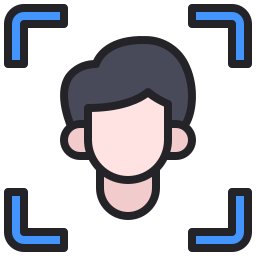
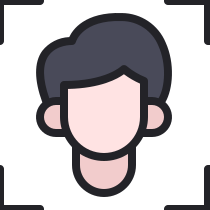
implement EditProfileModal component

diff --git a/src/components/items/EditProfileModal.tsx b/src/components/items/EditProfileModal.tsx
@@ -1,0 +1,102 @@
+interface EditProfileModalProps {
+  onConfirm: () => void;
+  onCancel: () => void;
+}
+
+export default function EditProfileModal({
+  onConfirm,
+  onCancel,
+}: EditProfileModalProps) {
+  return (
+    <div className="fixed z-50 inset-0 flex items-center justify-center bg-gray-700/50">
+      <div className="bg-surface px-6 pt-6 md:py-5 md:rounded-xl shadow-lg w-full h-full md:h-auto max-w-xl relative">
+        <h2 className="text-xl font-bold pl-1">Edit Profile</h2>
+        <button
+          type="button"
+          className="absolute top-4 right-6 text-3xl bg-ground-600/80 text-secondary hover:text-text-primary"
+          onClick={onCancel}
+        >
+          &times;
+        </button>
+        <div className="border-t border-border my-4"></div>
+
+        <div className="flex flex-col  w-fit p-2 gap-4 ">
+          <img
+            className=" w-26 rounded-full border-amber-200 border-2 p-1 object-cover"
+            src="/face-id.png"
+            alt="Profile"
+          />
+          <img
+            className="absolute w-8 left-25 top-41 rounded-full bg-green-700 border-2 p-2 object-cover"
+            src="/camera-light.svg"
+            alt="Profile"
+          />
+        </div>
+
+        <div className="flex flex-col px-2 py-4 gap-4 ">
+          <div className="flex flex-col bg-card p-3 rounded-lg border border-border">
+            <label className="text-sm text-text-primary mb-1">Username</label>
+            <input
+              type="text"
+              className="border border-gray-300 rounded-md px-3 py-2 focus:outline-none focus:ring-2 focus:ring-blue-500 bg-surface text-text-primary"
+              placeholder="Enter your username"
+            />
+          </div>
+          <div className="flex bg-yellow-500 px-3  py-2  gap-2 rounded-lg border border-border">
+            <div className="flex flex-col w-full mb-1">
+              <label className="text-sm text-text-primary mb-1">
+                First Name
+              </label>
+              <input
+                type="text"
+                className="border border-gray-300 rounded-md px-3 py-2 focus:outline-none focus:ring-2 focus:ring-blue-500 bg-surface text-text-primary"
+                placeholder="Enter your first name"
+              />{" "}
+            </div>
+            <div className="flex flex-col w-full mb-1 ">
+              <label className="text-sm text-text-primary mb-1">
+                Last Name
+              </label>
+              <input
+                type="text"
+                className="border border-gray-300 rounded-md px-3 py-2 focus:outline-none focus:ring-2 focus:ring-blue-500 bg-surface text-text-primary"
+                placeholder="Enter your last name"
+              />{" "}
+            </div>
+          </div>
+
+          <div className="flex flex-col bg-card p-3  rounded-lg border border-border">
+            <label className="text-sm text-text-primary mb-1">About Me</label>
+            <textarea
+              className="border border-gray-300 rounded-md px-3 py-2 focus:outline-none focus:ring-2 focus:ring-blue-500 bg-surface text-text-primary"
+              placeholder="Tell us about yourself"
+              rows={4}
+            ></textarea>
+          </div>
+          <div className="flex flex-col bg-card p-3 rounded-lg border border-border">
+            <label className="text-sm text-text-primary mb-1">
+              Profile Picture
+            </label>
+            <input
+              type="file"
+              className="border border-gray-300 rounded-md px-3 py-2 focus:outline-none focus:ring-2 focus:ring-blue-500 bg-surface text-text-primary"
+            />
+          </div>
+        </div>
+        <button
+          onClick={onConfirm}
+          className="mt-4 px-4 py-2 bg-blue-600 text-white rounded hover:bg-blue-700 transition-colors"
+        >
+          Save Changes
+        </button>
+        <button
+          onClick={onCancel}
+          className="mt-4 px-4 py-2 bg-gray-600 text-white rounded hover:bg-gray-700 transition-colors"
+        >
+          Cancel
+        </button>
+        {/* Add form fields for editing profile here */}
+      </div>
+    </div>
+  );
+}

diff --git a/src/components/items/ProfileModal.tsx b/src/components/items/ProfileModal.tsx
@@ -2,7 +2,6 @@ import { fetchUser } from "../../features/authDatabase";
 import ColorButton from "../buttons/ColorButton";
 
 import { useEffect, useState } from "react";
-import { showToast } from "./ToastItem";
 import { useTheme } from "../../context/ThemeContext";
 import { useWindowWidth } from "../../utils/useWindowWidth";
 import { useTranslation } from "../../utils/useTranslation";
@@ -13,9 +12,14 @@ import { useKvpContext } from "../../context/KvpContext";
 interface ProfileModalProps {
   onConfirm: () => void;
   onCancel: () => void;
+  showEditProfile?: () => void;
 }
 
-export function ProfileModal({ onConfirm, onCancel }: ProfileModalProps) {
+export function ProfileModal({
+  onConfirm,
+  onCancel,
+  showEditProfile,
+}: ProfileModalProps) {
   const [username, setUsername] = useState(
     "... " + useTranslation().profileModal.loadData,
   );
@@ -45,8 +49,6 @@ export function ProfileModal({ onConfirm, onCancel }: ProfileModalProps) {
   const act =
     kvps?.filter((kvp) => kvp.assignedTo === username && kvp.state === "Act")
       .length || 0;
-
-  //const actPercentage = createdBy > 0 ? Math.round((act / createdBy) * 100) : 0;
 
   const profileUser = users?.find((user) => user.userEmail === email)?.photoUrl;
 
@@ -80,14 +82,11 @@ export function ProfileModal({ onConfirm, onCancel }: ProfileModalProps) {
             <ColorButton
               color="gray"
               isTextOnly={true}
-              onClick={() =>
-                showToast(
-                  width,
-                  theme,
-                  "info",
-                  "Profil ändern Funktion ist noch nicht implementiert.",
-                )
-              }
+              onClick={() => {
+                if (showEditProfile) {
+                  showEditProfile();
+                }
+              }}
             >
               {translation.profileModal.profileButton}
             </ColorButton>

diff --git a/src/components/layout/TopBar.tsx b/src/components/layout/TopBar.tsx
@@ -14,6 +14,7 @@ import { useTheme } from "../../context/ThemeContext";
 import { showToast } from "../items/ToastItem";
 import { TopNavButton } from "../buttons/TopNavButton";
 import { useTranslation } from "../../utils/useTranslation";
+import EditProfileModal from "../items/EditProfileModal";
 
 interface TopBarProps {
   kvpBar?: ReactNode;
@@ -37,6 +38,7 @@ export default function TopBar({ kvpBar }: TopBarProps) {
   const [showConfirmDialog, setShowConfirmDialog] = useState(false);
   const [showSettingsModal, setShowSettingsModal] = useState(false);
   const [showProfileModal, setShowProfileModal] = useState(false);
+  const [showEditProfileModal, setShowEditProfileModal] = useState(false);
 
   useClickOutside(settingsWrapperRef, () => {
     setShowSettings(false);
@@ -116,7 +118,9 @@ export default function TopBar({ kvpBar }: TopBarProps) {
             {showSettings && (
               <SettingItem
                 onSetting={handleSettingsClick}
-                onProfile={handleProfileClick}
+                onProfile={() => {
+                  handleProfileClick();
+                }}
                 onLogout={handleLogoutClick}
               />
             )}
@@ -169,6 +173,18 @@ export default function TopBar({ kvpBar }: TopBarProps) {
           <ProfileModal
             onConfirm={() => setShowProfileModal(false)}
             onCancel={() => setShowProfileModal(false)}
+            showEditProfile={() => {
+              setShowProfileModal(false);
+              setShowEditProfileModal(true);
+            }}
+          />,
+          document.body,
+        )}
+      {showEditProfileModal &&
+        createPortal(
+          <EditProfileModal
+            onConfirm={() => setShowEditProfileModal(false)}
+            onCancel={() => setShowEditProfileModal(false)}
           />,
           document.body,
         )}